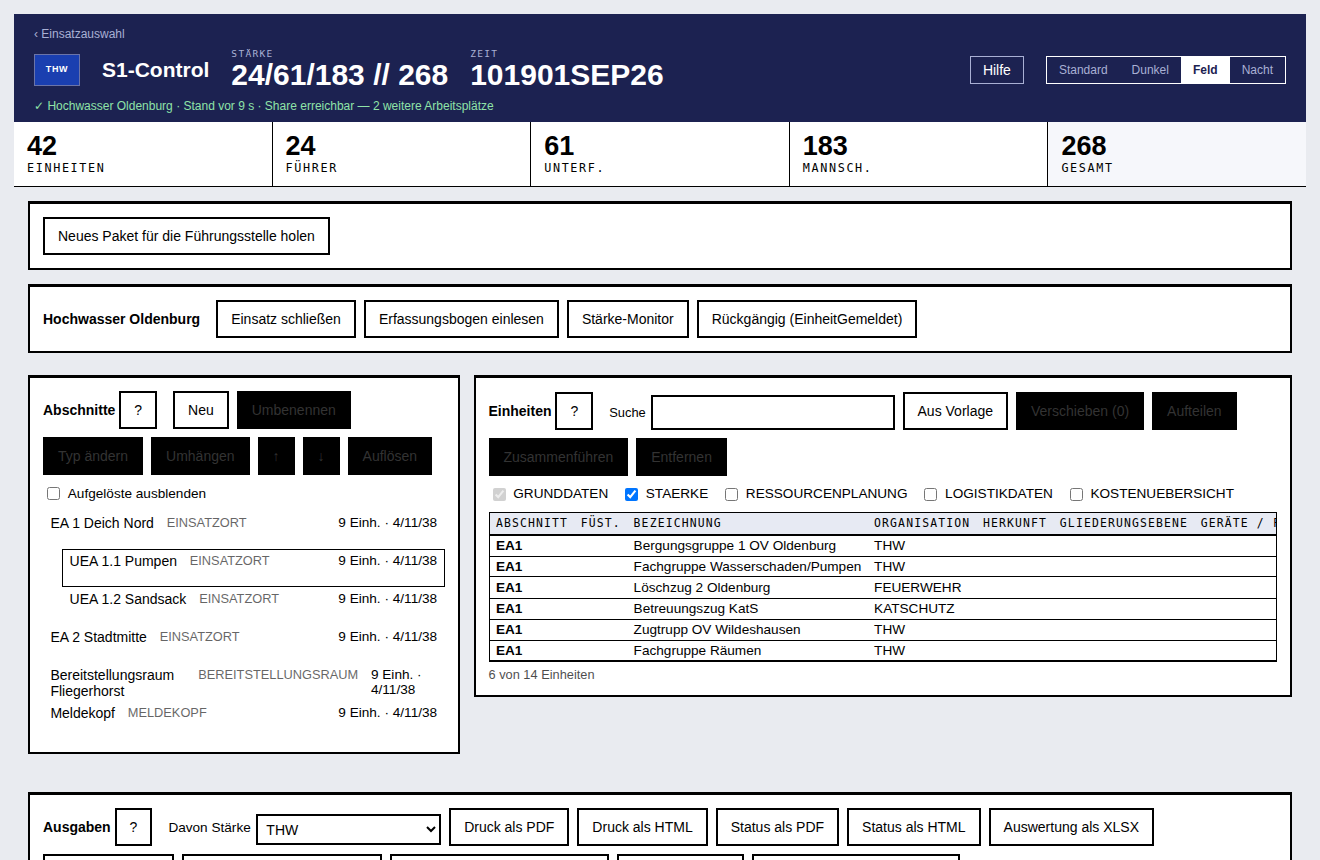
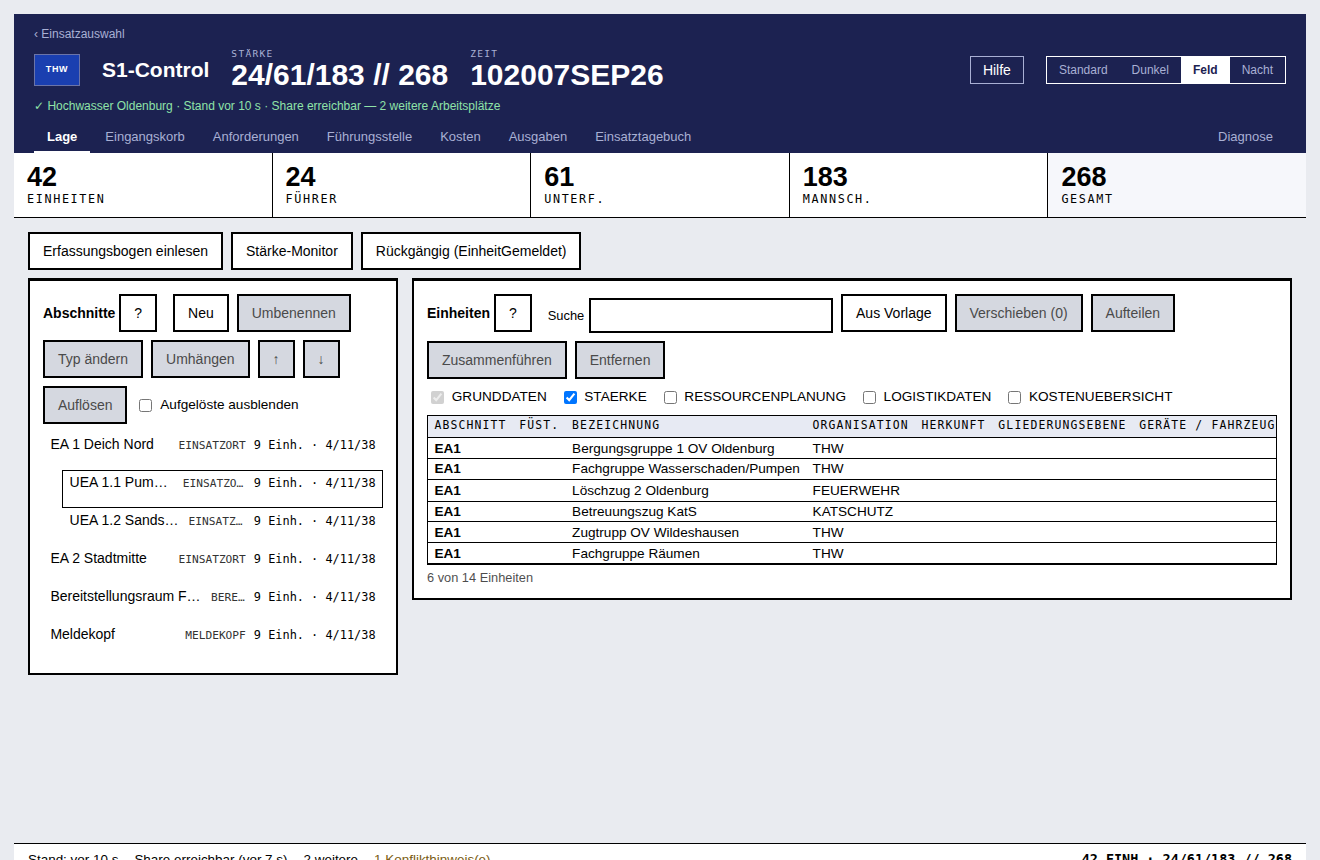
docs(entwurf): Anordnung nach Option 2a im Stand nachgezogen
Claude-Session: https://claude.ai/code/session_01ApCu8BkD42ycPFdkLp88CE

diff --git a/docs/v2/entwurf/oberflaeche/README.md b/docs/v2/entwurf/oberflaeche/README.md
@@ -15,6 +15,20 @@ Die vorher halbtransparenten Grautöne der Ansichten sind auf die Marken gezogen
 sodass Baum, Einheitentabelle, Masken, Nebenblätter, Eingangskorb und
 Führungsstelle den Wechsel mitmachen.
 
+Die Anordnung folgt Option 2a: **ein Blatt zur Zeit**. Die Reiter stehen im
+Kopfband (`blaetter.ts`, `Kopfband.tsx`) und führen die ganze Ansicht — Lage,
+Eingangskorb, Anforderungen, Führungsstelle, Kosten, Ausgaben, Einsatztagebuch,
+rechts die Diagnose. Vorher lagen Ausgaben, Nebenblätter und Tagebuch
+untereinander unter der Lage; wer die Einheitentabelle sehen wollte, scrollte an
+allem vorbei. Die Lage bleibt beim Blattwechsel eingehängt, weil sie die Auswahl
+von Abschnitt und Einheit hält, auf die Ausgaben und Tagebuch sich beziehen. Der
+Zähler am Reiter „Eingangskorb" nennt die offenen Meldungen. Die Werkzeugzeile
+der Lage trägt nur noch, was die ganze Lage betrifft — Bogen einlesen,
+Stärke-Monitor, Rückgängig; der Weg aus dem Einsatz steht als „‹ Einsatzauswahl"
+im Kopfband. Der Knopf, mit dem ein Arbeitsplatz das Programmpaket für alle holt,
+steht jetzt im Blatt „Diagnose" statt über der Lage; ein Angebot oder ein
+abgelehntes Manifest erscheint weiterhin oben.
+
 Neu sind das Navy-Kopfband mit Wortbild, Gesamtstärke, taktischer Zeit,
 Hilfeknopf und Themenschalter (`Kopfband.tsx`), das Stärkeband mit den fünf
 Kacheln (`Staerkeband.tsx`) und die Schreibweisen in `formate.ts`: Die
@@ -31,8 +45,7 @@ mitgeschlossen worden: `liesArbeitsplatz` hat die Betriebsart bisher zwar
 geschrieben, aber nicht wieder gelesen — ein Meldekopf war nach jedem Start
 wieder eine Führungsstelle.
 
-Offen: der Reiterstreifen im Kopfband (die Nebenblätter haben heute eine eigene
-Reiterleiste über dem Tagebuch), die Feingestaltung der Bogenübernahme aus
+Offen: die Feingestaltung der Bogenübernahme aus
 erfassungsbogen.app (Option 2d) und die Führungsharke als Bildschirmansicht —
 sie existiert bislang nur als Ausgabe `fueorg`. Die taktischen Zeichen aus dem
 Bündel liegen unter `apps/desktop/assets/tz/clean/` (`viewBox 0 0 256 256`, ohne
